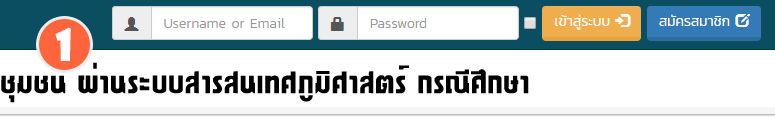
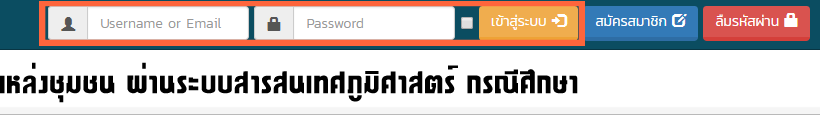
fix

diff --git a/howto.php b/howto.php
@@ -22,22 +22,36 @@ require_once ("connect.php");
   <div class="content-section-b">
     <div class="container">
       <div class="row">
-                  <div class="col-md-12" style="margin-top:20px">
+                  <div class="col-md-12" style="margin-top:30px">
                       <h2 class="section-heading">วิธีเข้าระบบ</h2>
                   </div>
                   <div class="col-lg-5">
                     <h4>1. กรอกชื่อ และ รหัส สมาชิกให้ถูกต้อง จากนั้นกดเข้าสู่ระบบ</h4>
-                      <img src="photo/howto/1.jpg" alt="" width="800px">
+                      <img src="photo/howto/3.png" alt="" width="800px">
                     </div>
-                  <div class="col-md-12" style="margin-top:20px">
+                  <div class="col-md-12" style="margin-top:30px">
                       <h2 class="section-heading">วิธีสมัครสมาชิก</h2>
                   </div>
                     <div class="col-lg-5">
                     <h4>1. กดปุ่มสมัครสมาชิก</h4>
-                      <img src="photo/howto/1.jpg" alt="" width="800px">
+                      <img src="photo/howto/2.png" alt="" width="800px">
                       <br><br>
                     <h4>2. กรอกข้อมูลให้เรียบร้อย แล้วกดยืนยัน</h4>
-                     <img src="photo/howto/2.png" alt="" width="800px">
+                     <img src="photo/howto/4.png" alt="" width="800px">
+                    </div>
+
+                  <div class="col-md-12" style="margin-top:30px">
+                      <h2 class="section-heading">รีเซ็ตรหัสผ่าน</h2>
+                  </div>
+                    <div class="col-lg-5">
+                    <h4>1. กดปุ่มลืมรหัสผ่าน</h4>
+                      <img src="photo/howto/5.png" alt="" width="800px">
+                    <h4>2. กรอกชื่อหรืออีเมลล์สมาชิก เสร็จแล้วกดยืนยัน</h4>
+                     <img src="photo/howto/6.png" alt="" width="800px">
+                    <h4>3. ตอบคำถามส่วนตัว เสร็จแล้วกดยืนยัน</h4>
+                     <img src="photo/howto/7.png" alt="" width="800px">
+                    <h4>4. กำหนดรหัสผ่านใหม่ เสร็จแล้วกดยืนยัน</h4>
+                     <img src="photo/howto/8.png" alt="" width="800px">
                     </div>
       </div>
     </div>

diff --git a/modules/function_login.php b/modules/function_login.php
@@ -12,7 +12,6 @@
         <input size="15" id="password" type="password" class="form-control" name="password" value="<?echo $_SESSION["pass"];?>" placeholder="Password" required="">
     </div>
 
-
  <div class="checkbox checkbox-circle">
                                     <label>
 <input type="checkbox" name="b1" value="B1"/><?php if (isset ($b1) && $b1=="B1")?>
@@ -22,6 +21,9 @@
 
     <button type="submit" class="btn btn-warning"><?echo $_SESSION["strh24"];?> <span class="glyphicon glyphicon-log-in"></span></button>
     <a href="register.php"><button type="button" class="btn btn-primary"><?echo $_SESSION["strh25"];?> <span class="glyphicon glyphicon-edit"></span></button>
+    </a>
+
+    <a href="reset_pass.php"><button type="button" class="btn btn-danger"><?echo $_SESSION["strh23"];?> <span class="glyphicon glyphicon-lock"></span></button>
     </a>
 </form>
 
